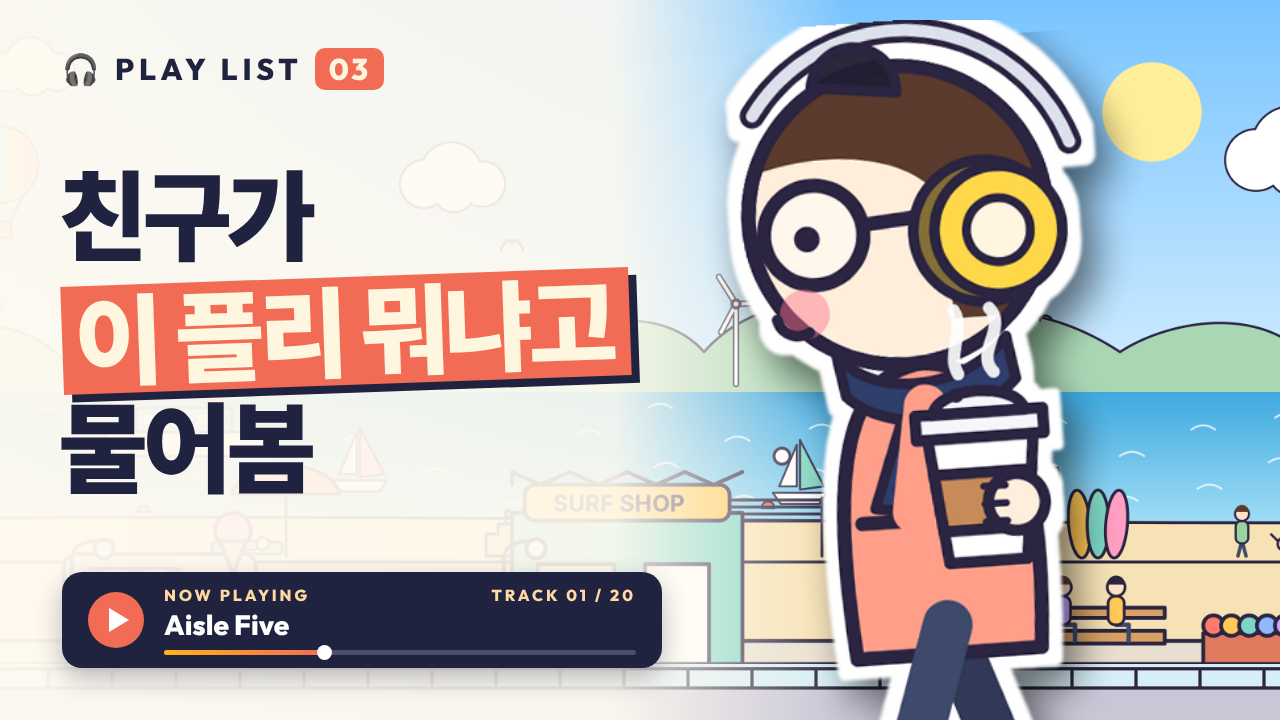
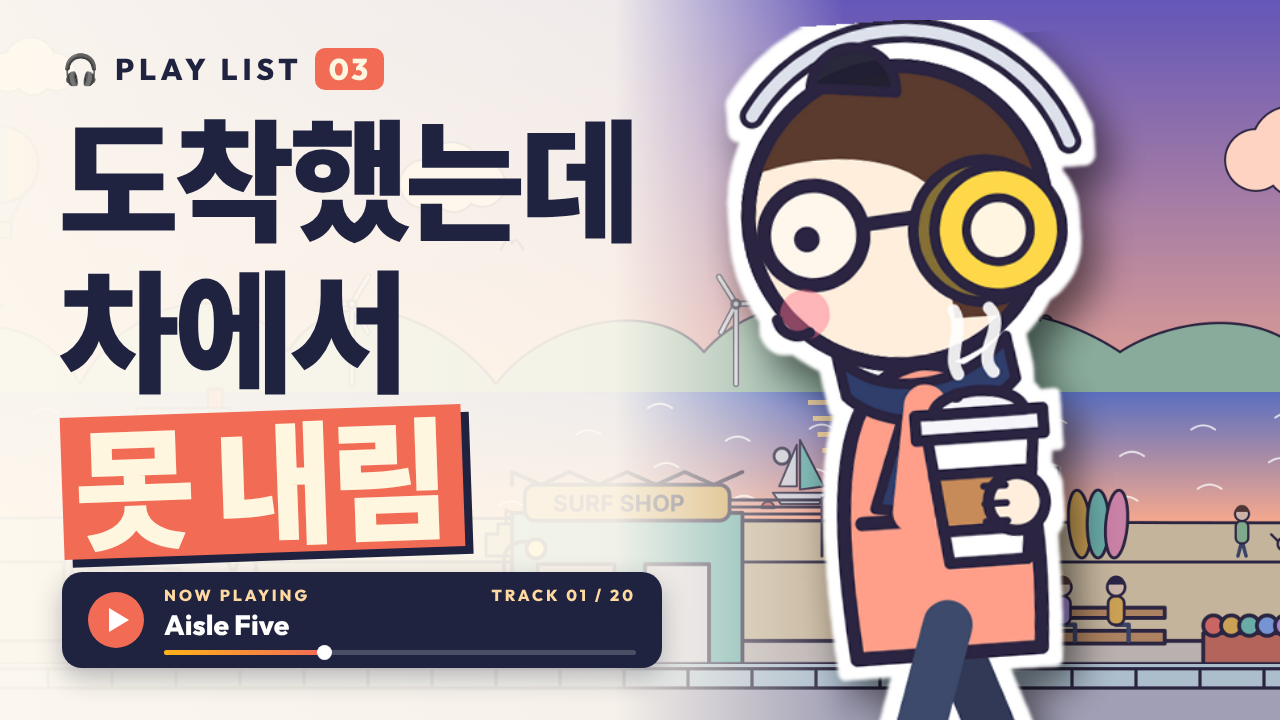
PLAY LIST 03 thumbnail (copy 6), shorts 8-15 titles; shorts can lift the scene so cars and bikes clear the player bar
Claude-Session: https://claude.ai/code/session_01Eg7fx1GG91guzCkE9SfuUw

diff --git a/studio/shorts/make_frames.py b/studio/shorts/make_frames.py
@@ -19,9 +19,11 @@ hook='''    if True:
         _a,_b,_it=next(w for w in WIN if w[0]<=fi<w[1]); _id=_it['id']
         if _id not in _PIPE:
             _PIPE[_id]=subprocess.Popen(['ffmpeg','-y','-loglevel','error','-f','rawvideo','-pix_fmt','rgb24','-s','1080x1920','-r',str(FPS),'-i','-','-c:v','libx264','-preset','medium','-crf','17','-pix_fmt','yuv420p',S+'/shorts/out/v_'+_id+'.mp4'],stdin=subprocess.PIPE)
-        _fr=img.crop((CX-304,0,CX+304,1080)).resize((1080,1920),Image.LANCZOS).convert('RGBA'); _fr.alpha_composite(_OV[_id])
+        _fr=img.crop((CX-304,0,CX+304,1080)).resize((1080,1920),Image.LANCZOS); _sh=_it.get('shift',0)
+        if _sh: _n=Image.new('RGB',(1080,1920),_fr.getpixel((540,1919))); _n.paste(_fr,(0,-_sh)); _fr=_n  # lift the scene so a car or bike clears the player bar
+        _fr=_fr.convert('RGBA'); _fr.alpha_composite(_OV[_id])
         _k = 1080 / 608; _d = ImageDraw.Draw(_fr); _ft = ImageFont.truetype(os.path.join(ASSETS, 'fonts', 'Outfit-800.ttf'), int(30 * _k))
-        _tw = _d.textlength('HARU', font=_ft); _cx, _cy = 310 * _k, (484 - 4 * abs(math.cos(phase)) * walk + TAG_DY) * _k  # TAG_DY: seaside rides move Haru's head
+        _tw = _d.textlength('HARU', font=_ft); _cx, _cy = 310 * _k, (484 - 4 * abs(math.cos(phase)) * walk + TAG_DY) * _k - _sh  # TAG_DY: seaside rides move Haru's head
         _d.rounded_rectangle((_cx - _tw / 2 - 16 * _k, _cy - 22 * _k, _cx + _tw / 2 + 16 * _k, _cy + 22 * _k), int(22 * _k), fill=(255, 255, 255, 255), outline=(43, 37, 65, 255), width=int(3 * _k))
         _d.text((_cx - _tw / 2, _cy - 19 * _k), 'HARU', font=_ft, fill=(43, 37, 65, 255))
         _PIPE[_id].stdin.write(_fr.convert('RGB').tobytes()); continue
